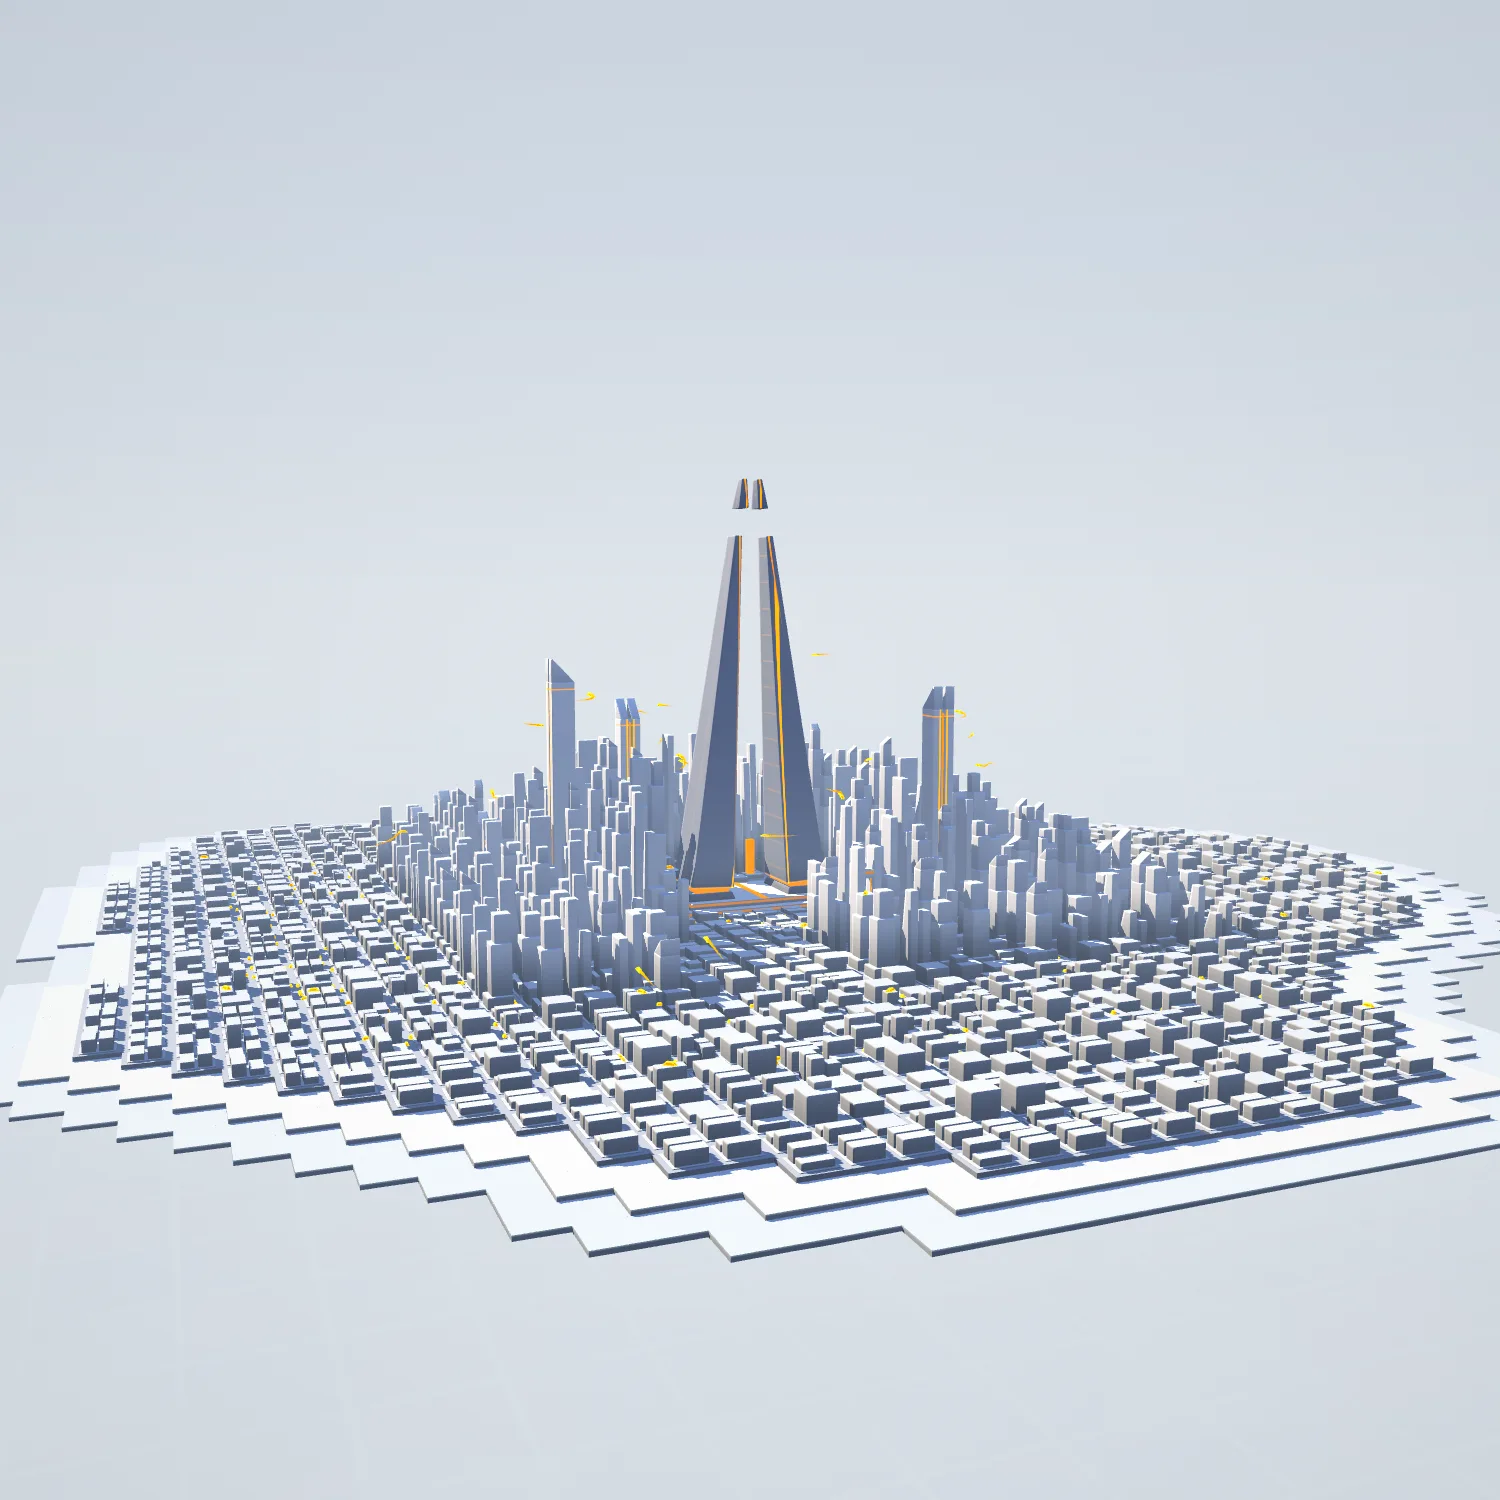
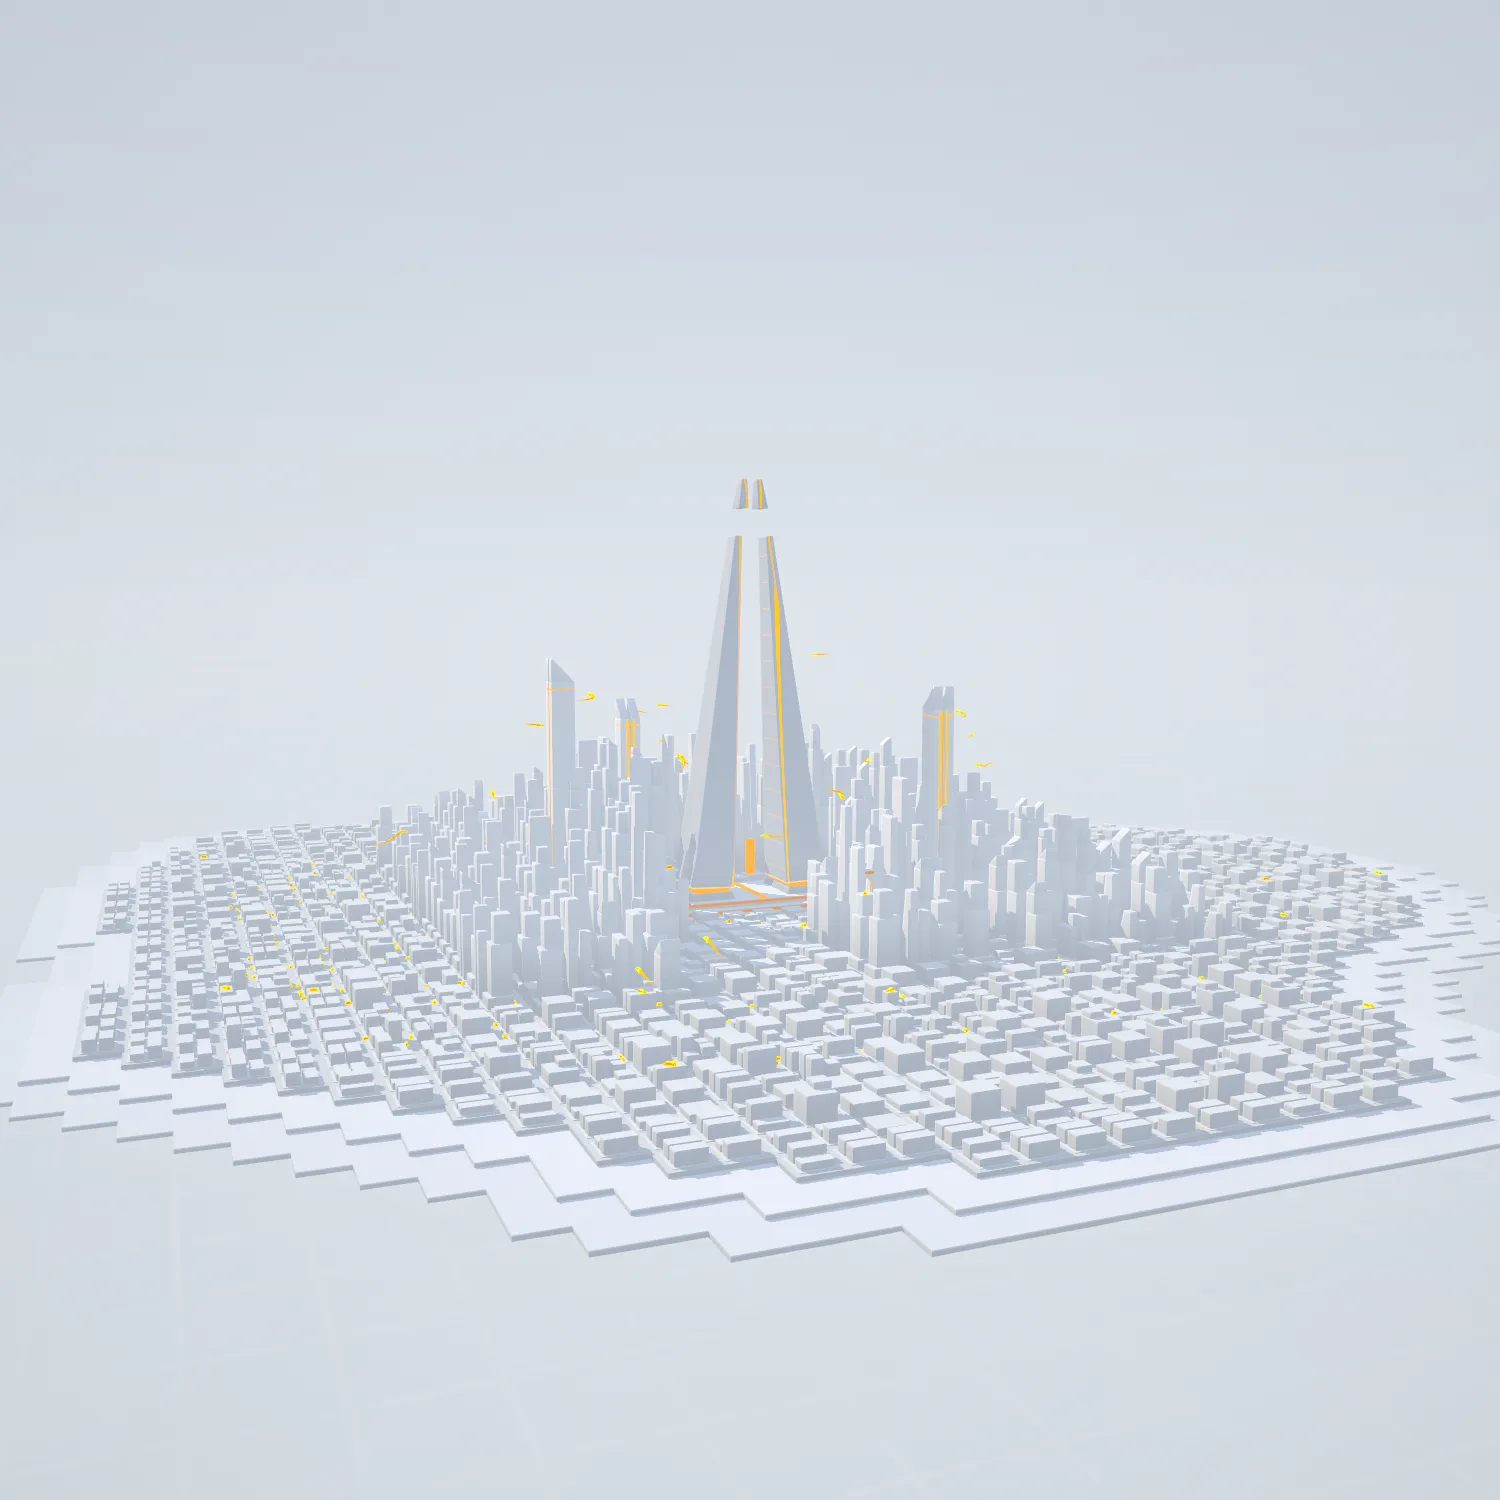
City: by day the city melts into the pale void, drawn by its orange; only a hint of the beam in the sea
- Light mode: the city's light and shade are held to a soft hint round the void's own tone, as it melts
  into the dark at night, so the orange carvings and the players draw it.
- By day the sea shows only a faint reflection of the beam.
- Stills re-rendered.

Changed region(s): [[0.0, 0.3067, 1.0, 0.8587], [0.6133, 0.828, 0.644, 0.8587], [0.3987, 0.828, 0.4293, 0.8587]]

diff --git a/apps/site/src/components/city.ts b/apps/site/src/components/city.ts
@@ -316,6 +316,9 @@ export const CITY_SCRIPT: PageScript = pageScript("city", String.raw`(function (
     "  float fill = max(dot(n, normalize(vec3(0.75, 0.25, -0.3))), 0.0) * mix(0.14, 0.08, uNight);\n" +
     "  col = base * (ambient + skyLight * fill + sunLight * diff);\n" +
     "  if (isWall && isBuilt) col *= mix(0.9, 1.06, vLocal.y);\n" +
+    // By day the city melts into the pale void as it melts into the dark at night: its light and shade held to a soft hint round the
+    // void's own tone (uFog), so only the orange carvings and the players draw it.
+    "  col = mix(uFog, col, mix(0.36, 1.0, uNight));\n" +
     // The foundation's tiers: a thin line of cool light along the top edge of each, faint by day and glowing at night: the island's edge.
     "  if (isWall && kind == 9) { float fromTop = (1.0 - vLocal.y) * vSize.y, edgeLine = 1.0 - smoothstep(0.12, 0.12 + max(fwidth(fromTop), 0.02) * 1.5, fromTop);\n" +
     "   vec3 edgeTone = mix(vec3(0.85, 0.97, 1.0), vec3(0.35, 0.7, 1.0), uNight); col = mix(col, edgeTone, edgeLine * 0.25 * (1.0 - uNight)); glow += edgeTone * edgeLine * 1.3 * uNight; }\n" +
@@ -2128,7 +2131,7 @@ export const CITY_SCRIPT: PageScript = pageScript("city", String.raw`(function (
     gl.uniform3fv(u.uHorizon, FOG); gl.uniform3fv(u.uZenith, ZENITH); gl.uniform1f(u.uTime, clock % 3600); gl.uniform4fv(u.uRipples, rippleData); gl.uniform1i(u.uRippleCount, ripples.length); gl.uniform1f(u.uNight, night);
     gl.uniform3fv(u.uFog, FOG); gl.uniform1f(u.uFogDensity, fogDensity); gl.uniform1f(u.uFogFalloff, FOG_FALLOFF);
     gl.uniform4f(u.uWave, relay.waveFrontUnits, relay.waveStrength, extras * relay.waveStrength, 0);
-    gl.uniform4f(u.uBeamReflect, relay.bottomY, headY, extras * relay.intensity * lerp(1.1, 0.7, night), 0);
+    gl.uniform4f(u.uBeamReflect, relay.bottomY, headY, extras * relay.intensity * lerp(0.2, 0.7, night), 0); // by day only a hint of the beam in the sea
     gl.bindVertexArray(gpu.waterVao); gl.drawArrays(gl.TRIANGLES, 0, WATER_COUNT);
     gl.useProgram(gpu.box.program); u = gpu.box.at;
     gl.uniformMatrix4fv(u.uViewProj, false, vp);
@@ -2685,11 +2688,11 @@ const CITY_STYLES = `
 .city-stage .city-still { position: absolute; inset: -50%; display: block; background: var(--still-tiny) center / auto 50% no-repeat;
   transform: translate(var(--still-x, calc(min(460px, 100vw - 2 * var(--pad-pane)) / -2)), var(--still-y, 0px));
   filter: blur(18px) saturate(1.1); transition: filter 0.9s ease; }
[3 lines of base64/hex data omitted]
 @media (max-width: 760px) {
   .city-stage .city-still { transform: translate(var(--still-x, 0px), var(--still-y, -18vh)); }
[3 lines of base64/hex data omitted]
 }
 .city-stage.is-still .city-still { background-image: var(--still-full); filter: none; }
